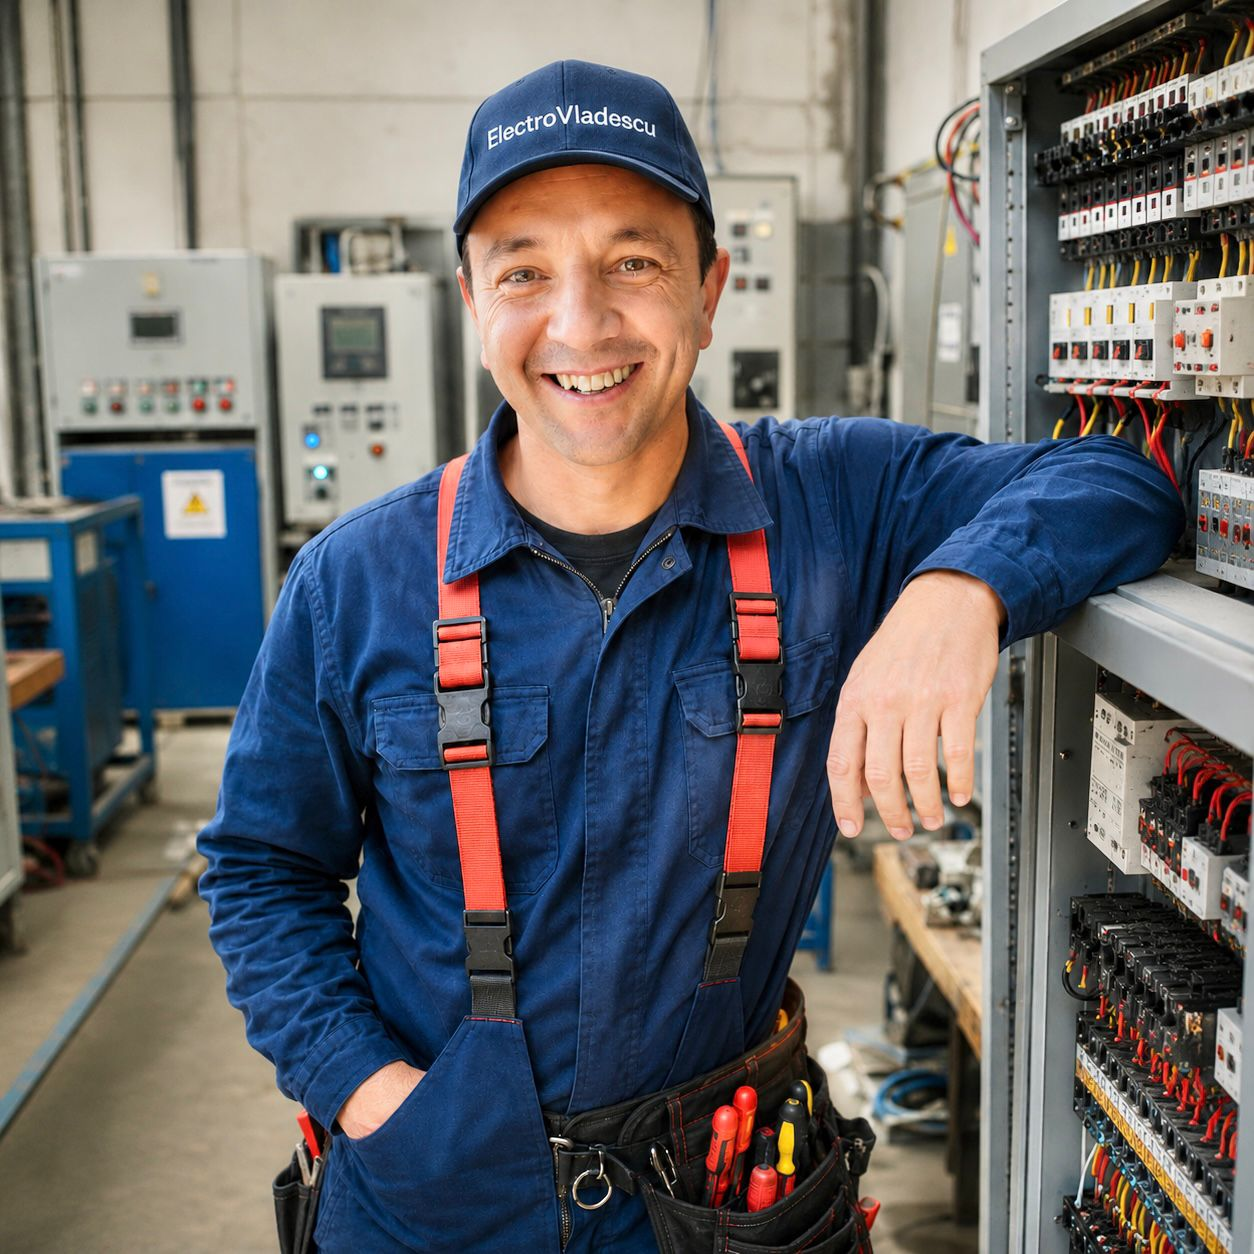
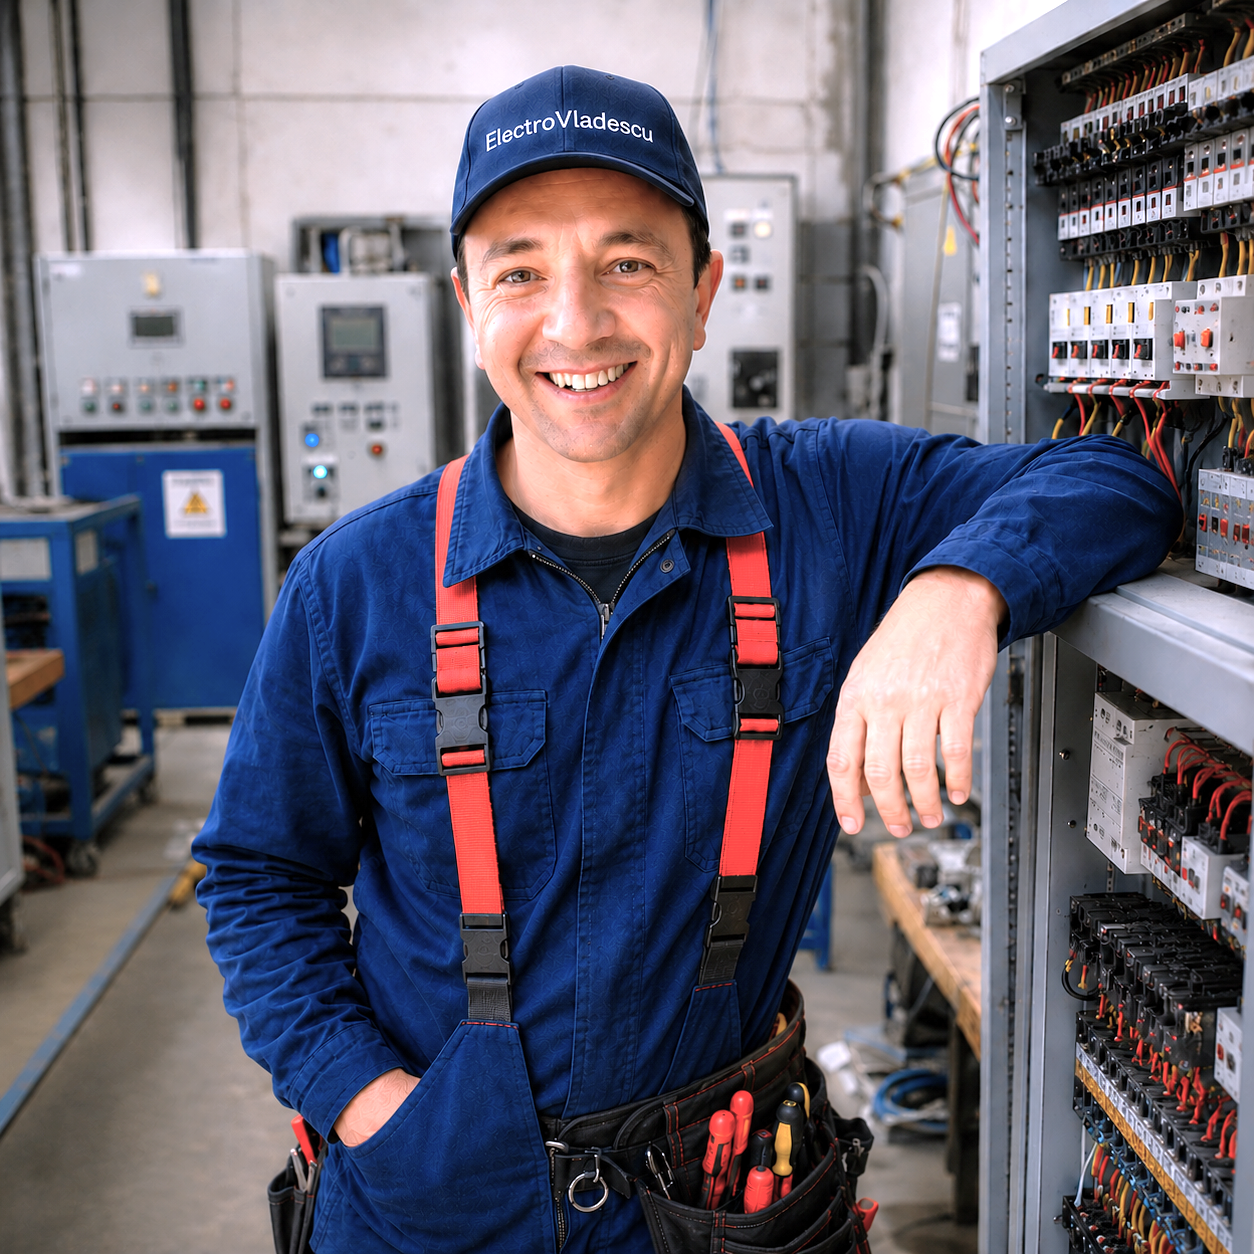
Schimb poza profilk

diff --git a/components/sections/footer-section.tsx b/components/sections/footer-section.tsx
@@ -49,7 +49,7 @@ export function FooterSection() {
                 className="rounded-xl"
               />
               <div>
-                <h3 className="font-bold text-lg">ElectroVlădescu</h3>
+                <h3 className="font-bold text-lg">ELECTROVLADESCU</h3>
                 <p className="text-sm text-background/60">S.R.L.</p>
               </div>
             </div>